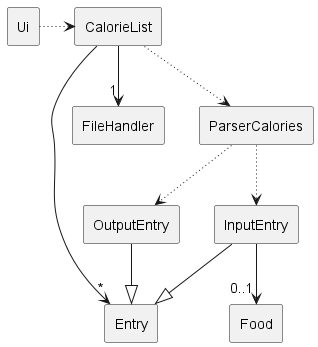
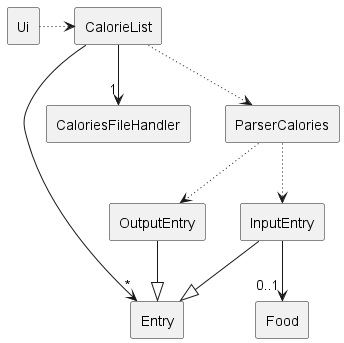
update DG with new filehandler classes

diff --git a/docs/DeveloperGuide.md b/docs/DeveloperGuide.md
@@ -30,14 +30,14 @@
 ## Design
 
 ### calories component
-Here's a (partial) class diagram of the `sleep` component.
+Here's a (partial) class diagram of the `calories` component.
 
 ![calories.png](assets%2Fcalories.png)
 
 The calories component consists of the following Classes
 1. `Ui` : Handles user and program interaction.
 2. `CalorieList` : Handles the list of calories entries.
-3. `FileHandler` : Handles the saving and reading of data from file.
+3. `CaloriesFileHandler` : Handles the saving and reading of data from file.
 4. `ParserCalories` : Handles the parsing of user input to determine type of command.
 5. `Entry` : Handles calories entries data.
 6. `OutputEntry` : Handles calories output entries data.
@@ -46,7 +46,7 @@ The calories component consists of the following Classes
 
 The sequence diagram bellow illustrates the interactions within the `calories` component, taking
 `calories in donut c/1000 d/2024-04-10` call as an example. 
-![caloriesComponent.png](assets%2FcaloriesComponent.png)
+![calories_component.png](assets%2Fcalories_component.png)
 
 How the `calories` component works:
 1. When the user keys in the `calories in donut c/1000 d/2024-04-10` command, 
@@ -63,8 +63,8 @@ to the caller, `CalorieList#addEntry(String)` which was called in step 2.
 4. The returned `InputEntry` object is added into the `calorieArrayList` member of type
 `ArrayList<Entry>` in the `CalorieList`, via the `ArrayList.add()` method. 
 
-5. `CalorieList#UpdateFile()` is then called, which calls `FileHandler#writeEntries(ArrayList<Entry>)`.
-Within that function, `FileHandler#writeToFile(String)` function is called, which writes the new data
+5. `CalorieList#UpdateFile()` is then called, which calls `CaloriesFileHandler#writeEntries(ArrayList<Entry>)`.
+Within that function, `CaloriesFileHandler#writeToFile(String)` function is called, which writes the new data
 into the data file. 
 
 6. If the dates of entries are not sorted in ascending order, `CalorieList#sortEntriesByDate()`
@@ -76,13 +76,13 @@ function is called, which sorts the entries in ascending order.
 
 
 ### sleep component
-Here's a (partial) class diagram of the `calories` component.
+Here's a (partial) class diagram of the `sleep` component.
 ![sleep.png](assets%2Fsleep.png)
 
 The sleep component consists of the following classes:
 1. `Ui`: Handles user and program interaction.
 2. `SleepList`: Handles the list of sleep records.
-3. `FileHandler`: Handles the saving and reading of data from the file.
+3. `SleepFileHandler`: Handles the saving and reading of data from the file.
 4. `ParserSleep`: Handles the parsing of user input to determine type of command.
 5. `Entry`: Handles all entries data.
 6. `SleepEntry`: Handles sleep entries data.
@@ -105,8 +105,8 @@ How the `sleep` component works:
 4. The returned `SleepEntry` object is added into the `sleepList` member of type
    `ArrayList<Entry>` in the `SleepList`, via the `ArrayList.add()` method.
 
-5. `SleepList#UpdateFile()` is then called, which calls `FileHandler#writeEntries(ArrayList<Entry>)`.
-   Within that function, `FileHandler#writeToFile(String)` function is called, which writes the new data
+5. `SleepList#UpdateFile()` is then called, which calls `SleepFileHandler#writeEntries(ArrayList<Entry>)`.
+   Within that function, `SleepFileHandler#writeToFile(String)` function is called, which writes the new data
    into the data file.
 
 
@@ -118,11 +118,11 @@ How the `sleep` component works:
 
 #### Implementation
 
-This functionality is facilitated by `UI`, `CalorieList`, `FileHandler` and `ParserCalories`. It implements one operation, namely:
+This functionality is facilitated by `UI`, `CalorieList`, and `ParserCalories`. It implements one operation, namely:
 - `UI#handleCaloriesInput(String, CalorieList)`
 - `CalorieList#addEntry(String)`
+- `CalorieList#updateFile()`
 - `ParserCalories#parseCaloriesInput(String)`
-- `FileHandler#updateFile()`
 
 This feature is activated when the user inputs a `calories in` or `calories out` command in the terminal.
 
@@ -137,11 +137,11 @@ the string is sent to `UI#handleCaloriesInput(String, CalorieList)`, which calls
 
 - Step 4: The returned `Entry` object is added into the `calorieArrayList` member of type `ArrayList<Entry>` in the `CalorieList`, via the `ArrayList.add()` method.
 
-- Step 5: `FileHandler#updateFile()` is then called to update the data file with the new entry in the `CalorieList`.
+- Step 5: `CalorieList#updateFile()` is then called to update the data file with the new entry in the `CalorieList`.
 
 The sequence diagram for this feature is shown below:
 
-![CaloriesAddEntrySeqDiagram](http://www.plantuml.com/plantuml/proxy?cache=no&src=https://raw.githubusercontent.com/rexyyong/tp/RexDG/docs/CaloriesAddEntrySeqDiagram.puml)
+![CaloriesAddEntrySeqDiagram.png](assets%2FCaloriesAddEntrySeqDiagram.png)
 
 ### Calculating calorie requirements based on a user`s goals
 
